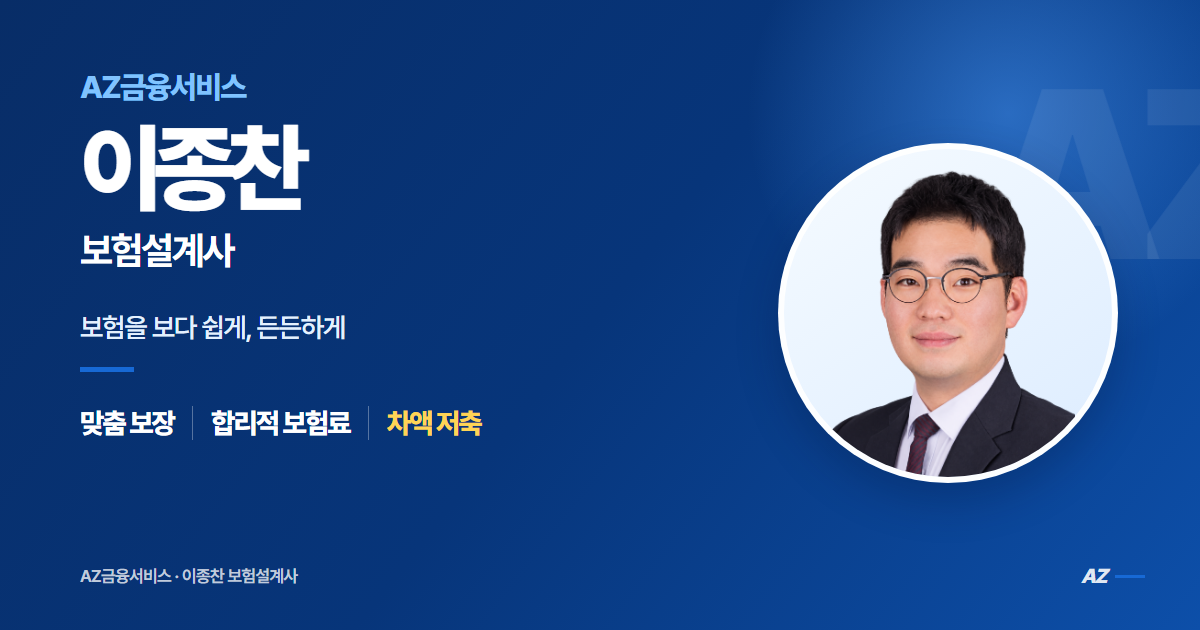
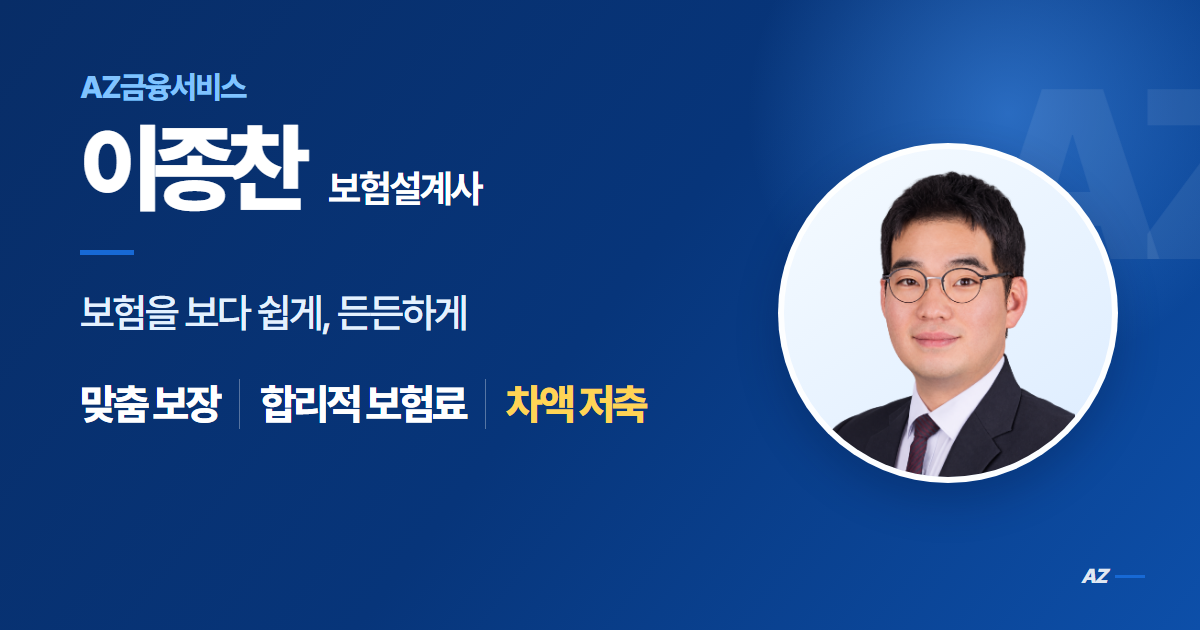
Refine Kakao business card share design

diff --git a/share.html b/share.html
@@ -42,8 +42,6 @@
         window.Kakao.Share.sendDefault({
           objectType: "feed",
           content: {
-            title: "보험을 보다 쉽게, 든든하게",
-            description: "맞춤 보장 · 합리적 보험료 · 차액 저축",
             imageUrl,
             imageWidth: 1200,
             imageHeight: 630,
